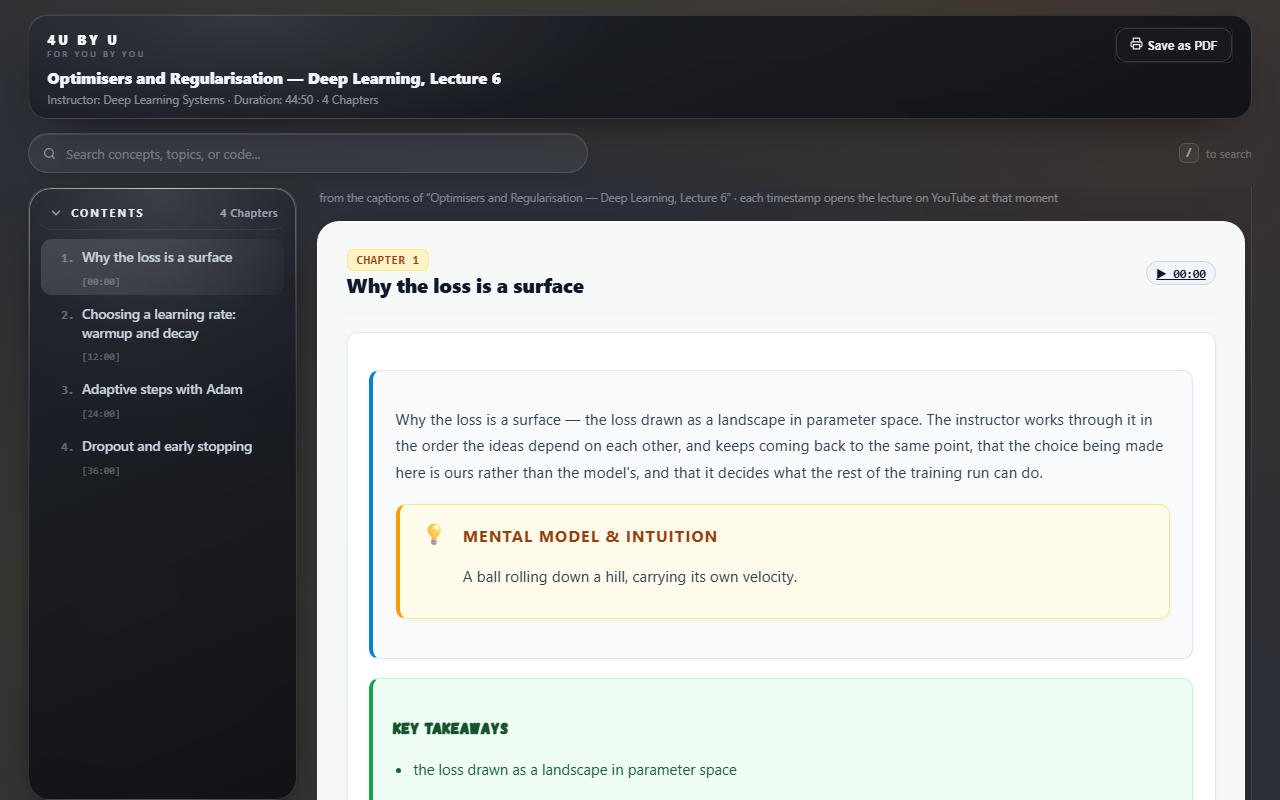
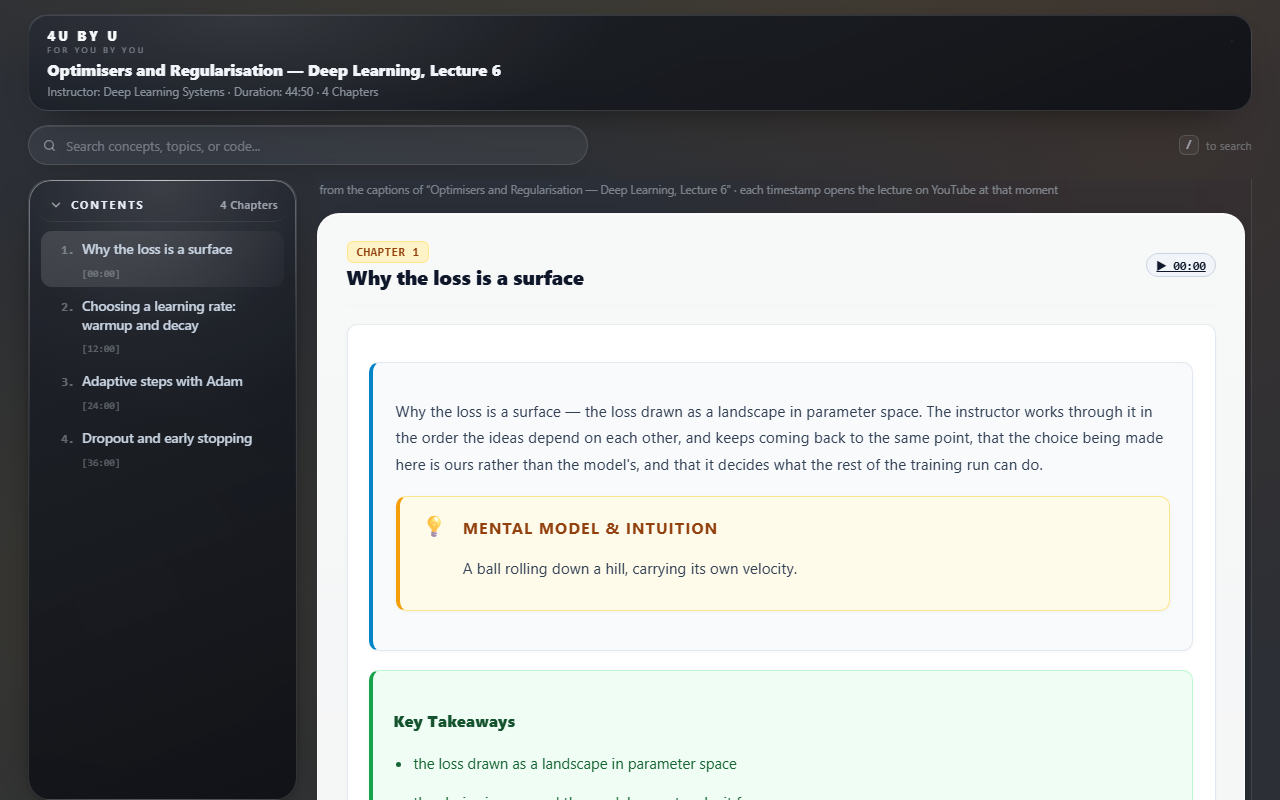
v2.9.7: scrub every PDF reference, regenerate store screenshots from the current build

diff --git a/index.html b/index.html
@@ -60,7 +60,7 @@
       <p class="lede">
         Open the YouTube lecture you are already watching, press one button, and get a chapterised study
         handbook — chapters by topic, timestamps that jump to the right minute, one self-contained HTML page
-        you can keep, print, or save as a PDF. No account, no server, no upload. The notes are written by
+        you can keep, search, or print. No account, no server, no upload. The notes are written by
         your own API key, and the page opens from your own disk for as long as you have it.
       </p>
 
@@ -77,7 +77,7 @@
         <div class="step"><b>1</b><span>Open a lecture on YouTube. A <span class="muted">✦ Make notes</span> button appears in the corner.</span></div>
         <div class="step"><b>2</b><span>Paste an API key. Get a free one from <a href="https://console.groq.com/keys">console.groq.com/keys</a> — it stays in your browser, and the model list is asked of the provider with your key, so you always see the models you actually have.</span></div>
         <div class="step"><b>3</b><span>The cost is shown before it is spent: how many calls, roughly how many tokens, and how many lectures of this size the model's free day holds.</span></div>
-        <div class="step"><b>4</b><span>Press <em>Generate</em>. When it finishes, open the page or download it. One click in the page turns it into a PDF, using your browser's own printer.</span></div>
+        <div class="step"><b>4</b><span>Press <em>Generate</em>. When it finishes, open the page or download it — one self-contained file that opens offline, from your own disk, with nothing to install.</span></div>
       </div>
 
       <h2>What it will not do</h2>

diff --git a/4ubyu.user.js b/4ubyu.user.js
@@ -2592,8 +2592,8 @@ ${videoId
     #app-workspace.notes-only .handbook-main,
     #app-workspace.notes-only .handbook-pane { background: #fff !important; }
 
-    /* The button that opened the dialog has no place on the paper it produced. */
-    #btn-print, .toolbar-actions { display: none !important; }
+    /* No page furniture on paper. */
+    .toolbar-actions { display: none !important; }
 
     /* Keep small blocks whole and headings with their text; let long chapters
        break wherever they need to, so a chapter never lands alone on a page.
@@ -5193,8 +5193,8 @@ ${chaptersHtml}
         } left as a notice rather than invented. Each one says why, and shows what was said in
           that part of the lecture.</div>` : ""}
         ${state.stopped ? `<div class="ubyu-note warn">${escapeHtml(state.stopped)}</div>` : ""}
-        <p class="ubyu-muted">The page opens from your own disk with no server anywhere. To keep it as a
-        PDF, open it and use the “Save as PDF” button — that is your browser's own printer.</p>
+        <p class="ubyu-muted">The page opens from your own disk with no server anywhere, and keeps
+        working offline for as long as you keep the file.</p>
         <div class="ubyu-actions">
           <button type="button" class="ubyu-btn primary" data-act="open-page">Open the page</button>
           <button type="button" class="ubyu-btn" data-act="save-page">Download the page</button>

diff --git a/extension/dist/store/content.js b/extension/dist/store/content.js
@@ -2616,8 +2616,8 @@ ${videoId
     #app-workspace.notes-only .handbook-main,
     #app-workspace.notes-only .handbook-pane { background: #fff !important; }
 
-    /* The button that opened the dialog has no place on the paper it produced. */
-    #btn-print, .toolbar-actions { display: none !important; }
+    /* No page furniture on paper. */
+    .toolbar-actions { display: none !important; }
 
     /* Keep small blocks whole and headings with their text; let long chapters
        break wherever they need to, so a chapter never lands alone on a page.
@@ -5217,8 +5217,8 @@ ${chaptersHtml}
         } left as a notice rather than invented. Each one says why, and shows what was said in
           that part of the lecture.</div>` : ""}
         ${state.stopped ? `<div class="ubyu-note warn">${escapeHtml(state.stopped)}</div>` : ""}
-        <p class="ubyu-muted">The page opens from your own disk with no server anywhere. To keep it as a
-        PDF, open it and use the “Save as PDF” button — that is your browser's own printer.</p>
+        <p class="ubyu-muted">The page opens from your own disk with no server anywhere, and keeps
+        working offline for as long as you keep the file.</p>
         <div class="ubyu-actions">
           <button type="button" class="ubyu-btn primary" data-act="open-page">Open the page</button>
           <button type="button" class="ubyu-btn" data-act="save-page">Download the page</button>

diff --git a/extension/src/panel.js b/extension/src/panel.js
@@ -1094,8 +1094,8 @@
         } left as a notice rather than invented. Each one says why, and shows what was said in
           that part of the lecture.</div>` : ""}
         ${state.stopped ? `<div class="ubyu-note warn">${escapeHtml(state.stopped)}</div>` : ""}
-        <p class="ubyu-muted">The page opens from your own disk with no server anywhere. To keep it as a
-        PDF, open it and use the “Save as PDF” button — that is your browser's own printer.</p>
+        <p class="ubyu-muted">The page opens from your own disk with no server anywhere, and keeps
+        working offline for as long as you keep the file.</p>
         <div class="ubyu-actions">
           <button type="button" class="ubyu-btn primary" data-act="open-page">Open the page</button>
           <button type="button" class="ubyu-btn" data-act="save-page">Download the page</button>

diff --git a/extension/src/workspace.js b/extension/src/workspace.js
@@ -1220,8 +1220,8 @@ ${videoId
     #app-workspace.notes-only .handbook-main,
     #app-workspace.notes-only .handbook-pane { background: #fff !important; }
 
-    /* The button that opened the dialog has no place on the paper it produced. */
-    #btn-print, .toolbar-actions { display: none !important; }
+    /* No page furniture on paper. */
+    .toolbar-actions { display: none !important; }
 
     /* Keep small blocks whole and headings with their text; let long chapters
        break wherever they need to, so a chapter never lands alone on a page.

diff --git a/README.md b/README.md
@@ -6,7 +6,7 @@
 
 **Install it:** [anikethana21.github.io/4ubyu](https://anikethana21.github.io/4ubyu/) — one click, and it updates itself from that page afterwards.
 
-Open a lecture on YouTube, press **✦ Make notes** in the corner, paste a free API key once, and the lecture comes back as a handbook: chapters divided **by topic** (not by equal slices of the clock), a summary of what each part is about, the points worth keeping, the mistakes to avoid, and timestamps that jump to the exact minute in the video. The result is a single self-contained HTML file you can keep, search, or print to PDF.
+Open a lecture on YouTube, press **✦ Make notes** in the corner, paste a free API key once, and the lecture comes back as a handbook: chapters divided **by topic** (not by equal slices of the clock), a summary of what each part is about, the points worth keeping, the mistakes to avoid, and timestamps that jump to the exact minute in the video. The result is a single self-contained HTML file you can keep, search, or print.
 
 It runs entirely in your browser. The captions are read from the page you are already on, the notes are written by a model you choose and pay for with your own key, and the page opens from your own disk. There is no backend of ours to go down, no ingest token to leak, and no service that can stop the product working.
 
@@ -37,7 +37,7 @@ It runs entirely in your browser. The captions are read from the page you are al
 | **Notes, not a transcript** | Each topic gets one written explanation, an analogy, key points, pitfalls, and an example. LaTeX in the explanation is rendered to readable text rather than left as noise. |
 | **Timestamps that work** | Every chapter and section timestamp is a real link to `youtube.com/watch?v=…&t=…`, opening in a new tab. When you render the page with the player, they scroll the video instead. |
 | **One file you own** | The notes are a plain document; the page is a rendering of it. The page carries its own stylesheet, font and scripts — **zero external requests** — so it still works in ten years, offline, on a laptop with no network. |
-| **Print to PDF in one click** | *Save as PDF* in the page uses the browser's own printer with a `@media print` stylesheet. No PDF library, no file-size inflation, no second program. |
+| **A page that prints properly** | A `@media print` stylesheet strips the glass, the shadows and the fixed sidebar, so your browser's own print dialog produces clean pages — no PDF library, no file-size inflation, no second program. |
 | **A floating index, a reading column** | The contents are a glass panel pinned to the left of the page — one floating column, not a strip above the text. It tracks where you are as you scroll, and the notes read in their own column beside it. On a narrow screen the index moves above the notes and the page becomes one column. |
 | **A library that costs nothing to reopen** | Every finished lecture is kept in your script manager's storage. Drawing the page again — next week, on another machine, in a different shape — costs **zero** model calls. |
 | **Free-tier honest** | More than 8,000 tokens a minute cannot be sent to a free tier, so a run is paced rather than refused, and the panel tells you how many lectures of this size the model's day holds *before* you spend anything. |
@@ -59,7 +59,7 @@ It runs entirely in your browser. The captions are read from the page you are al
   notes document  { video metadata, chapters[], sections[] }─┘
         │   the document is the data; the page is a rendering of it
         ▼
-  one self-contained HTML page  ──►  your disk  ──►  print to PDF
+  one self-contained HTML page  ──►  your disk
 ```
 
 The split in the source follows the split in the risk:
@@ -137,7 +137,7 @@ The model list is ordered **best first** — the models that reliably write a lo
 2. **A timestamp the model invented is dropped, never clamped.** Sending a reader to the wrong minute of a two-hour video is worse than leaving a heading out. Topics closer together than thirty seconds are merged into the one before them; a topic that begins a window is pinned to that window's start.
 3. **Nothing is ever fabricated.** When a part cannot be written up, the page says so in words — with the provider's own reason, and with the class of the failure kept apart, because *"there are no captions here"*, *"the model's answer could not be read"* and *"the day's allowance is spent"* are not the same thing to the person who asked.
 4. **Resumable by default.** Every planned window and every written section is stored under its own key. A rate limit, a closed tab or a flat battery costs the wait, not the work. Stopping a run keeps what was written and drops the rest, rather than filling the page with apologies for itself.
-5. **The artifact is HTML, and PDF is one click.** A PDF library would inflate a 300 KB page and duplicate the browser's own good printer. The page is the artifact; the PDF is a rendering of it.
+5. **The artifact is HTML, and printing is the browser's job.** A PDF library would inflate a 300 KB page and duplicate the browser's own good printer. The page is the artifact; anything you make from it is a rendering of it.
 5. **The model list is asked of the provider, never written down.** A hardcoded list is a guess about someone else's service: stale the week a model retires, blind to what your key is entitled to, and happy to offer models that answer 404. One request with your key returns exactly your models — and doubles as the test that the key works, before any notes are paid for.
 6. **Nothing external may block the product.** No font CDN, no CSS `@import`, no external script, no embed, no store review, no server. The extractor that lifts the page's stylesheet *fails the build* if any `http(s)://` survives in it, so a remote dependency cannot creep back in unnoticed.
 6. **The interesting logic is testable without a browser.** Everything that decides what the notes say is a plain function. The parts that could only be tested on YouTube are kept as thin and as few as possible.
@@ -231,12 +231,12 @@ The server-side prototype is **frozen**: it still runs, its 98 tests still pass,
 
 | Version | Date | Key changes |
 |---|---|---|
-| **2.9.7** | 2026-10-25 | Removed Save as PDF button entirely; userscript-only distribution |
-| **2.9.6** | 2026-10-21 | Print button loading spinner + "Preparing PDF…" text |
+| **2.9.7** | 2026-10-25 | Removed the in-page PDF button entirely; userscript-only distribution |
+| **2.9.6** | 2026-10-21 | Print button loading spinner + "Preparing…" text |
 | **2.9.5** | 2026-10-21 | Version bump; all fixes consolidated |
 | **2.9.4** | 2026-10-21 | Aggressive caption fetch: MIN_SEGMENTS=5, rendered panel fallback |
 | **2.9.3** | 2026-10-21 | Duplicate chapter/section title suppression |
-| **2.9.2** | 2026-10-21 | Print CSS fix: PDF renders in 2–6s (shadows/filters stripped) |
+| **2.9.2** | 2026-10-21 | Print stylesheet fix: pages paginate in 2–6s (shadows/filters stripped) |
 | **2.9.1** | 2026-10-21 | Auto-refresh on SPA navigation; clear resource timings |
 | **2.9.0** | 2026-10-21 | Notes compression: aggressive prompt + EXCERPT_STEPS [3000,1500,750] |
 | **2.2.x** | 2026-10-20 | Player mode removed; Gagalin font dropped; plural fix; panel resilience |

diff --git a/store/SUBMISSION.md b/store/SUBMISSION.md
@@ -37,7 +37,7 @@ these are worth ten minutes:
    *✦ Make notes* button should appear bottom-right within a second.
 4. **The whole path once:** paste a real Groq key → *Check the key* → the model list
    fills from your key → the estimate appears → *Generate* → progress, the quote, the
-   log → *Download the page* → open the file from disk → *Save as PDF* (browser print).
+   log → *Download the page* → open the file from disk.
 5. **Resume:** start a second run, close the tab halfway, reopen the same lecture. The
    panel should offer the finished parts rather than starting over.
 6. **SPA navigation:** click through to another video without reloading. The panel must
@@ -47,7 +47,7 @@ these are worth ten minutes:
 8. **Minimise and close:** the dash collapses to a bar that keeps the progress visible;
    × removes the panel for that lecture.
 
-If any of those misbehave, fix it before submitting. The version in the zip is 2.2.3.
+If any of those misbehave, fix it before submitting. The version in the zip is 2.9.7.
 
 ---
 
@@ -76,7 +76,7 @@ The fee is the only cost. There is no review fee and no annual charge.
 2. Upload `extension/dist/4ubyu-extension.zip`. Its root holds `manifest.json`, which is
    what the store expects — do not zip the folder.
 3. The dashboard reads the name, version and summary from the manifest:
-   **4 U By U — Lecture to Study Notes**, v2.2.3.
+   **4 U By U — Lecture to Study Notes**, v2.9.7.
 4. If it complains about the zip, rebuild both:
    `node extension/build.js && node extension/tools/package.js` (in PowerShell, `;`
    instead of `&&`).
@@ -110,8 +110,7 @@ keep.
 Press the gold button on any YouTube lecture, press Generate, and a few minutes later
 you have one HTML page: chapters by topic, timestamps that open the lecture at the right
 minute, plain-English explanations, analogies, worked examples, code and diagrams where
-the lecture had them, and a short check-yourself list after each section. Keep it, print
-it, or turn it into a PDF with your browser's own printer.
+the lecture had them, and a short check-yourself list after each section. Keep it, search it, or print it.
 
 WHAT MAKES IT DIFFERENT
 
